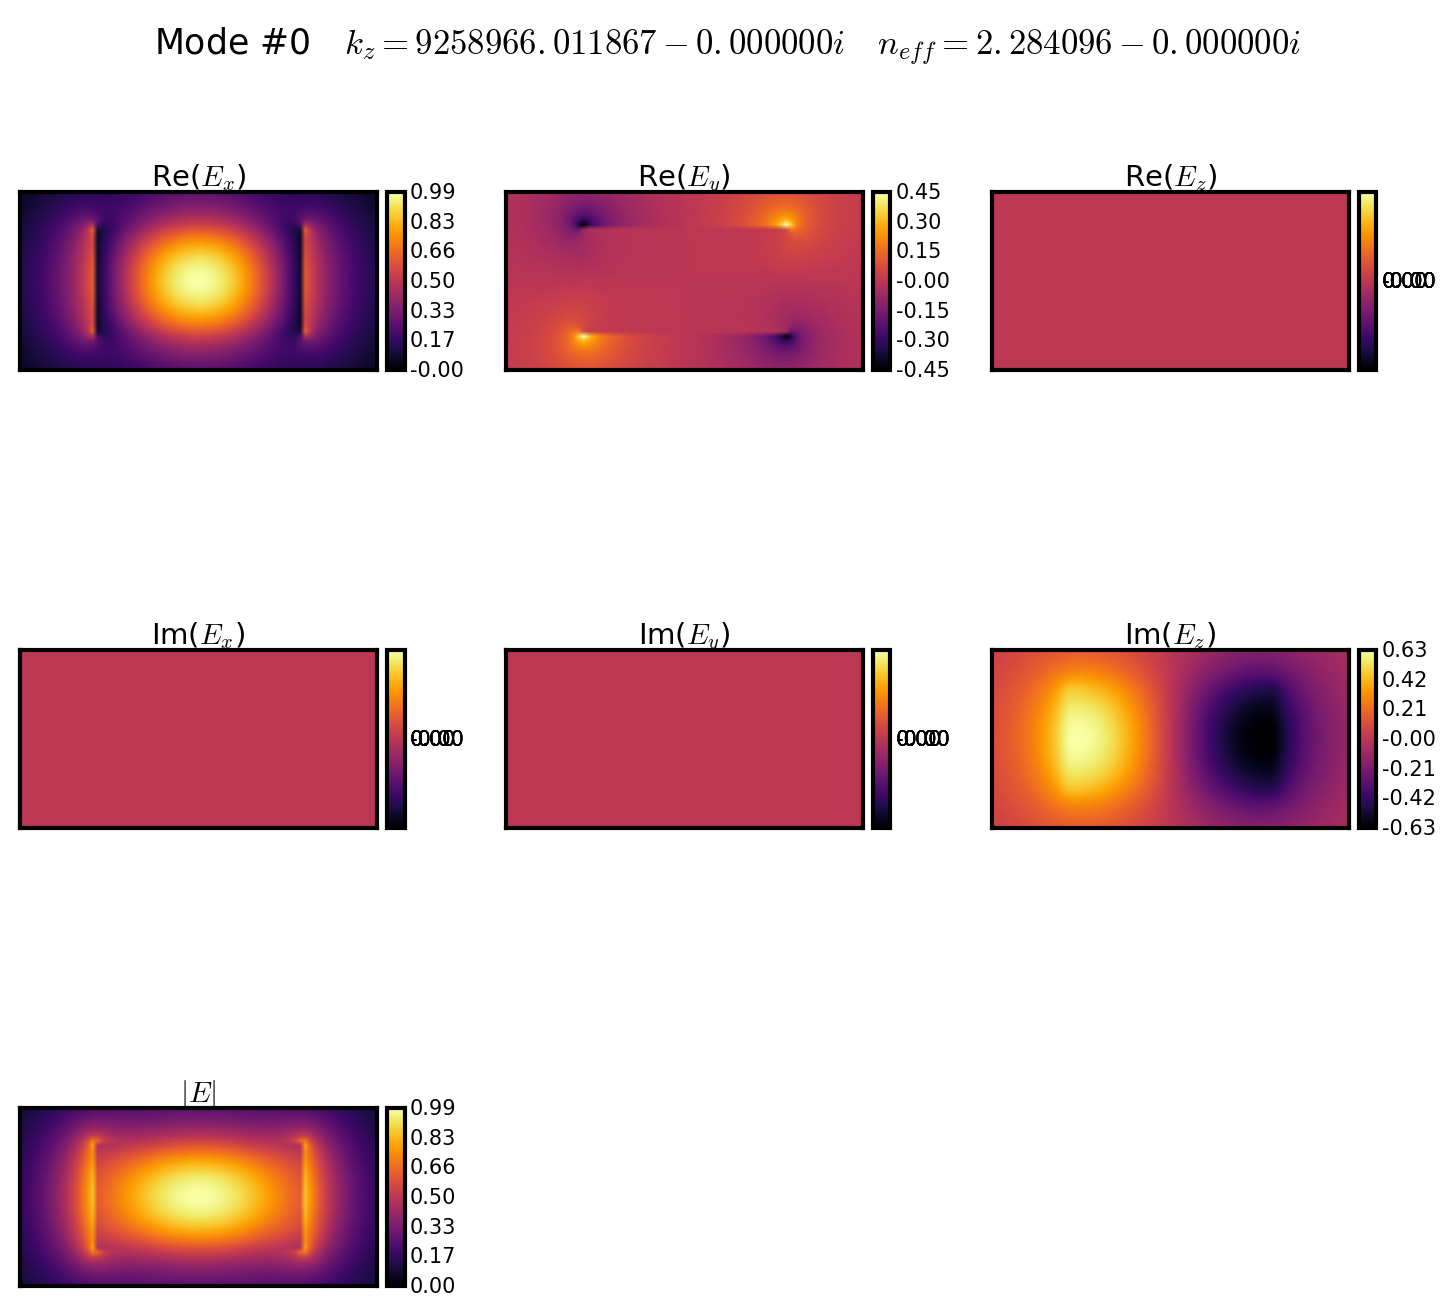
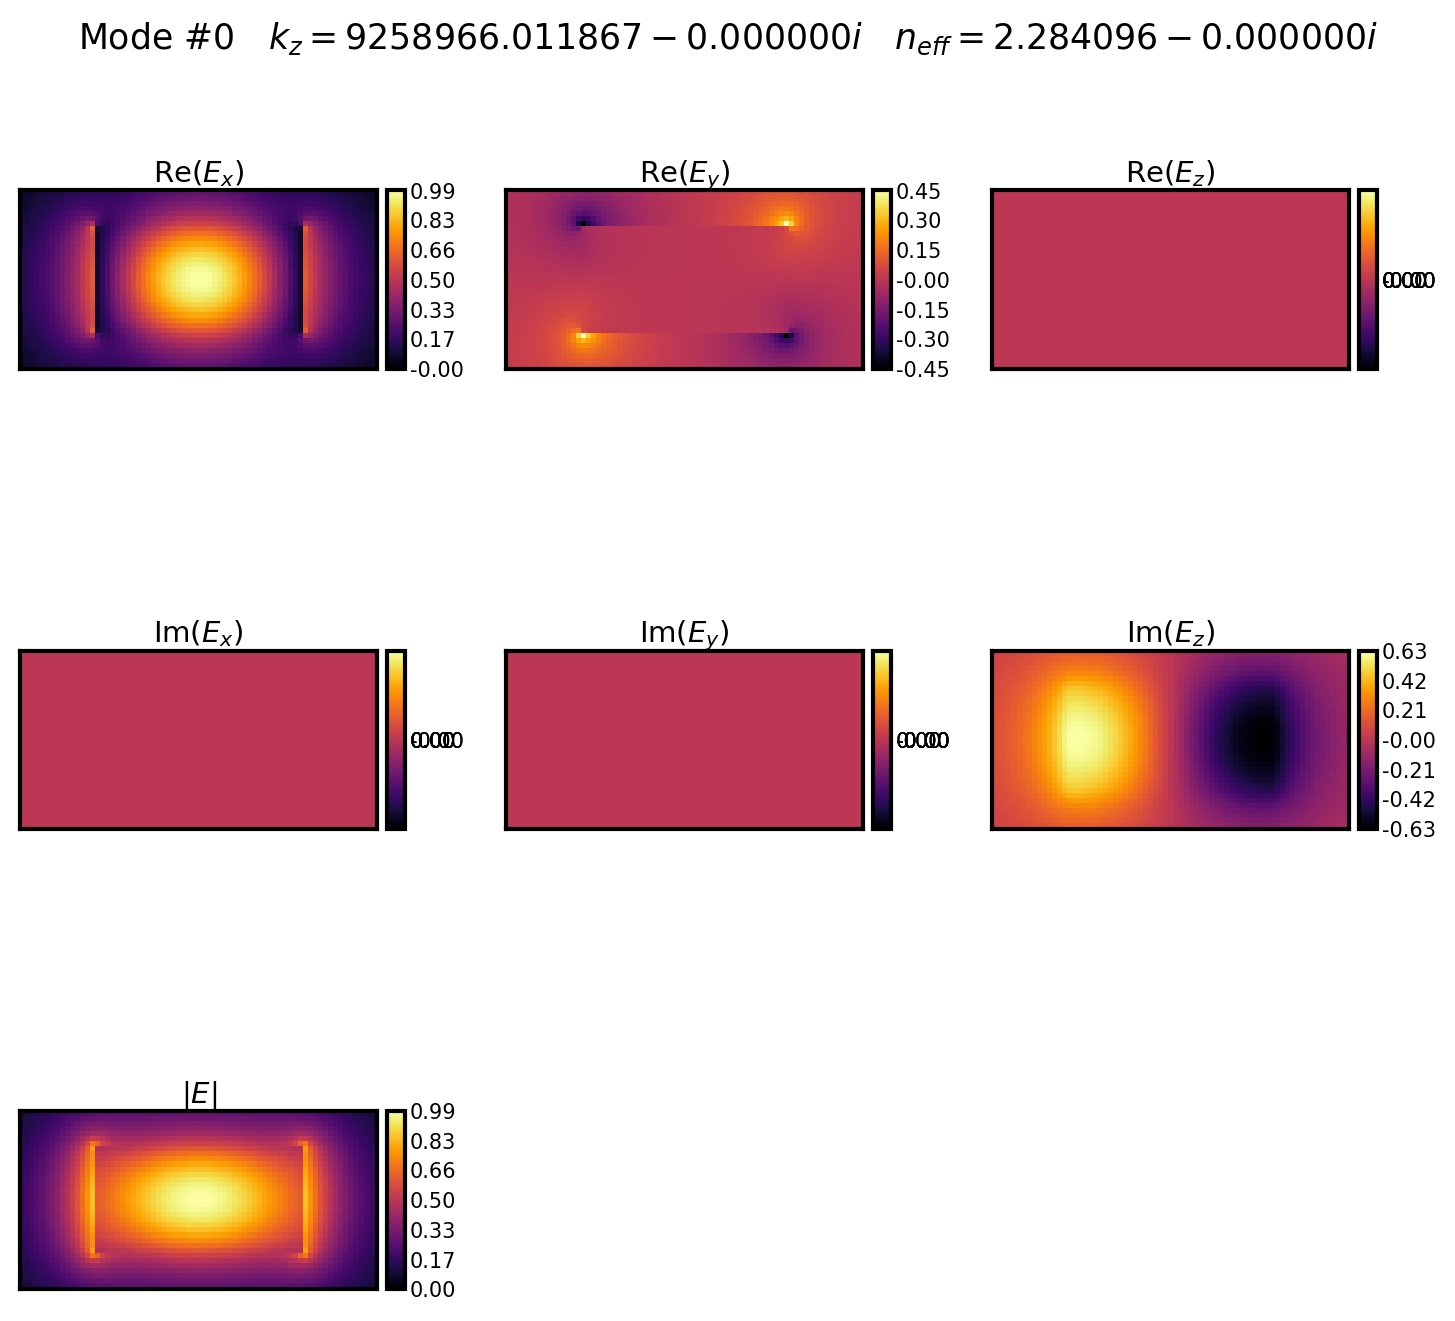
Updates encountered while preparing examples for paper publication.

diff --git a/lit_examples/simo-lit_04-no_pillar-Van_Laer-NP_2015.py b/lit_examples/simo-lit_04-no_pillar-Van_Laer-NP_2015.py
@@ -1,13 +1,19 @@
 """ Replicating the results of
-    Large Brillouin amplification in silicon
-    Kittlaus et al.
-    http://dx.doi.org/10.1038/nphoton.2016.112
+    Interaction between light and highly confined 
+    hypersound in a silicon photonic nanowire
+    Van Laer et al.
+    http://dx.doi.org/10.1038/nphoton.2015.11
+
+    Making simplification of ignoring the pillar.
 """
 
 import time
 import datetime
 import numpy as np
 import sys
+import matplotlib
+matplotlib.use('pdf')
+import matplotlib.pyplot as plt
 import copy
 
 sys.path.append("../backend/")
@@ -18,54 +24,35 @@ import integration
 import plotting
 from fortran import NumBAT
 
-# Naming conventions
-# AC: acoustic
-# EM: electromagnetic
-# k_AC: acoustic wavenumber
 
 start = time.time()
 
 # Geometric Parameters - all in nm.
-wl_nm = 1550 # Wavelength of EM wave in vacuum.
-# Unit cell must be large to ensure fields are zero at boundary.
+wl_nm = 1550
 unitcell_x = 5*wl_nm
-unitcell_y = 0.2*unitcell_x
-# Waveguide widths.
-inc_a_x = 1000
-inc_a_y = 80
-# Shape of the waveguide.
-inc_shape = 'rib'
+unitcell_y = 0.5*unitcell_x
+inc_a_x = 450
+inc_a_y = 230
+inc_shape = 'rectangular'
 
-slab_a_x = 3000
-slab_a_y = 130
-
-# Number of electromagnetic modes to solve for.
 num_modes_EM_pump = 20
 num_modes_EM_Stokes = num_modes_EM_pump
-# Number of acoustic modes to solve for.
-num_modes_AC = 40
-# The EM pump mode(s) for which to calculate interaction with AC modes.
-# Can specify a mode number (zero has lowest propagation constant) or 'All'.
+num_modes_AC = 60
 EM_ival_pump = 0
-# The EM Stokes mode(s) for which to calculate interaction with AC modes.
 EM_ival_Stokes = 0
-# The AC mode(s) for which to calculate interaction with EM modes.
 AC_ival = 'All'
 
-# Si_110 = copy.deepcopy(materials.Si_2015_Van_Laer)
+prefix_str = 'lit_04-no_pillar-'
+
+# Rotate crystal axis of Si from <100> to <110>, starting with same Si_2016_Smith data.
 Si_110 = copy.deepcopy(materials.Si_2016_Smith)
 Si_110.rotate_axis(np.pi/4,'y-axis', save_rotated_tensors=True)
-
-prefix_str = 'lit_07-'
-
-# Use specified parameters to create a waveguide object.
-# Note use of rough mesh for demonstration purposes.
+# Use all specified parameters to create a waveguide object.
 wguide = objects.Struct(unitcell_x,inc_a_x,unitcell_y,inc_a_y,inc_shape,
-                        slab_a_x=slab_a_x, slab_a_y=slab_a_y,
                         material_bkg=materials.Vacuum,
-                        material_a=Si_110,
-                        material_b=Si_110, symmetry_flag=False,
-                        lc_bkg=5, lc2=4000.0, lc3=2000.0)
+                        material_a=Si_110, symmetry_flag=False,
+                        lc_bkg=4, lc2=3000.0, lc3=2000.0)
+
 # Expected effective index of fundamental guided mode.
 n_eff = wguide.material_a.n-0.1
 
@@ -76,9 +63,12 @@ sim_EM_pump = wguide.calc_EM_modes(num_modes_EM_pump, wl_nm, n_eff=n_eff)
 # sim_EM_pump = npzfile['sim_EM_pump'].tolist()
 
 sim_EM_Stokes = mode_calcs.fwd_Stokes_modes(sim_EM_pump)
+# np.savez('wguide_data2', sim_EM_Stokes=sim_EM_Stokes)
+# npzfile = np.load('wguide_data2.npz')
+# sim_EM_Stokes = npzfile['sim_EM_Stokes'].tolist()
 
-plotting.plt_mode_fields(sim_EM_pump, xlim_min=0.4, xlim_max=0.4, ivals=[0], 
-                         ylim_min=0.3, ylim_max=0.3, EM_AC='EM_E', num_ticks=3,
+plotting.plt_mode_fields(sim_EM_pump, xlim_min=0.45, xlim_max=0.45, ivals=[0], 
+                         ylim_min=0.45, ylim_max=0.45, EM_AC='EM_E', 
                          prefix_str=prefix_str, pdf_png='png')
 
 # Print the wavevectors of EM modes.
@@ -88,23 +78,21 @@ print('k_z of EM modes \n', np.round(np.real(sim_EM_pump.Eig_values), 4))
 n_eff_sim = np.real(sim_EM_pump.Eig_values*((wl_nm*1e-9)/(2.*np.pi)))
 print("n_eff = ", np.round(n_eff_sim, 4))
 
-k_AC = 5
-
-shift_Hz = 2e9
+k_AC = 5 # close but not quite zero
 
 # Calculate Acoustic Modes
-sim_AC = wguide.calc_AC_modes(num_modes_AC, k_AC, EM_sim=sim_EM_pump, shift_Hz=shift_Hz)
+sim_AC = wguide.calc_AC_modes(num_modes_AC, k_AC, EM_sim=sim_EM_pump)
 # np.savez('wguide_data_AC', sim_AC=sim_AC)
 # npzfile = np.load('wguide_data_AC.npz')
 # sim_AC = npzfile['sim_AC'].tolist()
 
 # Print the frequencies of AC modes.
+print('Freq of AC modes (GHz) \n', np.round((sim_AC.Eig_values)*1e-9, 4))
 print('Freq of AC modes (GHz) \n', np.round(np.real(sim_AC.Eig_values)*1e-9, 4))
 
-plotting.plt_mode_fields(sim_AC, EM_AC='AC', prefix_str=prefix_str, ivals=[0,1,2,3,4,5,6,7,8,9],
-     num_ticks=3, xlim_min=0.1, xlim_max=0.1, pdf_png='png')
+plotting.plt_mode_fields(sim_AC, EM_AC='AC', prefix_str=prefix_str, pdf_png='png')
 
-set_q_factor = 680.
+set_q_factor = 306
 
 # Calculate interaction integrals and SBS gain for PE and MB effects combined, 
 # as well as just for PE, and just for MB.
@@ -123,12 +111,13 @@ print("SBS_gain MB contribution \n", masked_MB)
 print("SBS_gain total \n", masked)
 
 # Construct the SBS gain spectrum, built from Lorentzian peaks of the individual modes.
-freq_min = 4.2  # GHz
-freq_max = 4.3  # GHz
+freq_min = 9.1 # GHz
+freq_max = 9.4 # GHz
 plotting.gain_spectra(sim_AC, SBS_gain, SBS_gain_PE, SBS_gain_MB, linewidth_Hz, k_AC,
     EM_ival_pump, EM_ival_Stokes, AC_ival, freq_min=freq_min, freq_max=freq_max,
-    prefix_str=prefix_str, suffix_str='', pdf_png='pdf')
+    prefix_str=prefix_str, suffix_str='', pdf_png='png')
 
 end = time.time()
 print("\n Simulation time (sec.)", (end - start))
+
 

diff --git a/lit_examples/simo-lit_08-Kittlaus-NatComm_2017.py b/lit_examples/simo-lit_08-Kittlaus-NatComm_2017.py
@@ -47,11 +47,11 @@ coat_y = 100
 coat2_x = 100
 coat2_y = 200
 lc_bkg = 5  # background
-lc2 = 4000  # edge of rib
-lc3 = 500  # edge of slab_a 
-lc4 = 30  # edge of coat
-lc5 = 10   # edge of slab_b
-lc6 = 4  # edge of coat2
+lc2 = 6000  # edge of rib
+lc3 = 800   # edge of slab_a 
+lc4 = 30    # edge of coat
+lc5 = 10    # edge of slab_b
+lc6 = 4     # edge of coat2
 
 # Number of electromagnetic modes to solve for.
 num_modes_EM_pump = 20
@@ -97,9 +97,9 @@ sim_EM_Stokes = mode_calcs.fwd_Stokes_modes(sim_EM_pump)
 # npzfile = np.load('wguide_data2.npz')
 # sim_EM_Stokes = npzfile['sim_EM_Stokes'].tolist()
 
-plotting.plt_mode_fields(sim_EM_pump, xlim_min=0.35, xlim_max=0.35, ivals=[0,1], 
-                         ylim_min=0.3, ylim_max=0.3, EM_AC='EM_E', num_ticks=3,
-                         prefix_str=prefix_str, pdf_png='png')
+# plotting.plt_mode_fields(sim_EM_pump, xlim_min=0.35, xlim_max=0.35, ivals=[0,1], 
+#                          ylim_min=0.3, ylim_max=0.3, EM_AC='EM_E', num_ticks=3,
+#                          prefix_str=prefix_str, pdf_png='png')
 
 # Print the wavevectors of EM modes.
 print('k_z of EM modes \n', np.round(np.real(sim_EM_pump.Eig_values), 4))
@@ -122,8 +122,8 @@ sim_AC = wguide.calc_AC_modes(num_modes_AC, k_AC, EM_sim=sim_EM_pump, shift_Hz=s
 # Print the frequencies of AC modes.
 print('Freq of AC modes (GHz) \n', np.round(np.real(sim_AC.Eig_values)*1e-9, 4))
 
-plotting.plt_mode_fields(sim_AC, EM_AC='AC', prefix_str=prefix_str,
-     num_ticks=3, xlim_min=0.1, xlim_max=0.1)
+# plotting.plt_mode_fields(sim_AC, EM_AC='AC', prefix_str=prefix_str,
+#      num_ticks=3, xlim_min=0.1, xlim_max=0.1, pdf_png='png')
 
 set_q_factor = 460.
 
@@ -152,4 +152,3 @@ plotting.gain_spectra(sim_AC, SBS_gain, SBS_gain_PE, SBS_gain_MB, linewidth_Hz, 
 
 end = time.time()
 print("\n Simulation time (sec.)", (end - start))
-

diff --git a/lit_examples/simo-lit_04-pillar-Van_Laer-NP_2015.py b/lit_examples/simo-lit_04-pillar-Van_Laer-NP_2015.py
@@ -12,6 +12,7 @@ import sys
 import matplotlib
 matplotlib.use('pdf')
 import matplotlib.pyplot as plt
+import copy
 
 sys.path.append("../backend/")
 import materials
@@ -43,14 +44,18 @@ EM_ival_pump = 0
 EM_ival_Stokes = 0
 AC_ival = 'All'
 
-prefix_str = 'lit_04-'
+prefix_str = 'lit_04-pillar-'
+
+# Rotate crystal axis of Si from <100> to <110>, starting with same Si_2016_Smith data.
+Si_110 = copy.deepcopy(materials.Si_2015_Van_Laer)
+Si_110.rotate_axis(np.pi/4,'y-axis', save_rotated_tensors=True)
 
 # Use all specified parameters to create a waveguide object.
 wguide = objects.Struct(unitcell_x,inc_a_x,unitcell_y,inc_a_y,inc_shape,
                         slab_a_x=slab_a_x, slab_a_y=slab_a_y,
                         pillar_x=pillar_x, pillar_y=pillar_y,
                         material_bkg=materials.Vacuum,            # background
-                        material_a=materials.Si_2015_Van_Laer,    # rib
+                        material_a=Si_110,                        # rib
                         material_b=materials.SiO2_2015_Van_Laer,  # slab
                         material_c=materials.SiO2_2015_Van_Laer,  # pillar
                         lc_bkg=6, lc2=3000.0, lc3=100.0)
@@ -60,7 +65,7 @@ n_eff = wguide.material_a.n-0.1
 
 # Calculate Electromagnetic Modes
 sim_EM_pump = wguide.calc_EM_modes(num_modes_EM_pump, wl_nm, n_eff)
-sim_EM_Stokes = mode_calcs.bkwd_Stokes_modes(sim_EM_pump)
+sim_EM_Stokes = mode_calcs.fwd_Stokes_modes(sim_EM_pump)
 
 plotting.plt_mode_fields(sim_EM_pump, ivals=[0],
                          xlim_min=0.4, xlim_max=0.4, ylim_min=0.4, ylim_max=0.2, 
@@ -97,4 +102,3 @@ plotting.gain_spectra(sim_AC, SBS_gain, SBS_gain_PE, SBS_gain_MB, linewidth_Hz, 
 
 end = time.time()
 print("\n Simulation time (sec.)", (end - start))
-

diff --git a/lit_examples/simo-lit_05-Van_Laer-NJP_2015.py b/lit_examples/simo-lit_05-Van_Laer-NJP_2015.py
@@ -67,7 +67,7 @@ sim_EM_Stokes = mode_calcs.fwd_Stokes_modes(sim_EM_pump)
 
 plotting.plt_mode_fields(sim_EM_pump, xlim_min=0.45, xlim_max=0.45, ivals=[0], 
                          ylim_min=0.45, ylim_max=0.45, EM_AC='EM_E', 
-                         prefix_str=prefix_str, pdf_png='png')
+                         prefix_str=prefix_str, pdf_png='pdf')
 
 # Print the wavevectors of EM modes.
 print('k_z of EM modes \n', np.round(np.real(sim_EM_pump.Eig_values), 4))
@@ -88,9 +88,10 @@ sim_AC = wguide.calc_AC_modes(num_modes_AC, k_AC, EM_sim=sim_EM_pump)
 print('Freq of AC modes (GHz) \n', np.round((sim_AC.Eig_values)*1e-9, 4))
 print('Freq of AC modes (GHz) \n', np.round(np.real(sim_AC.Eig_values)*1e-9, 4))
 
-plotting.plt_mode_fields(sim_AC, EM_AC='AC', prefix_str=prefix_str)
+plotting.plt_mode_fields(sim_AC, EM_AC='AC', prefix_str=prefix_str, pdf_png='pdf')
 
-set_q_factor = 750
+# set_q_factor = 230 # NJP
+set_q_factor = 306 # NP
 
 # Calculate interaction integrals and SBS gain for PE and MB effects combined, 
 # as well as just for PE, and just for MB.
@@ -109,11 +110,11 @@ print("SBS_gain MB contribution \n", masked_MB)
 print("SBS_gain total \n", masked)
 
 # Construct the SBS gain spectrum, built from Lorentzian peaks of the individual modes.
-freq_min = 9.2 # GHz
+freq_min = 9.1 # GHz
 freq_max = 9.4 # GHz
 plotting.gain_spectra(sim_AC, SBS_gain, SBS_gain_PE, SBS_gain_MB, linewidth_Hz, k_AC,
     EM_ival_pump, EM_ival_Stokes, AC_ival, freq_min=freq_min, freq_max=freq_max,
-    prefix_str=prefix_str, suffix_str='')
+    prefix_str=prefix_str, suffix_str='', pdf_png='pdf')
 
 end = time.time()
 print("\n Simulation time (sec.)", (end - start))

diff --git a/lit_examples/simo-lit_09-Morrison-Optica_2017.py b/lit_examples/simo-lit_09-Morrison-Optica_2017.py
@@ -77,6 +77,10 @@ sim_EM_pump = wguide.calc_EM_modes(num_modes_EM_pump, wl_nm, n_eff)
 # npzfile = np.load('wguide_data.npz')
 # sim_EM_pump = npzfile['sim_EM_pump'].tolist()
 
+plotting.plt_mode_fields(sim_EM_pump, xlim_min=0.4, xlim_max=0.4, ivals=[0], 
+                         ylim_min=0.3, ylim_max=0.3, EM_AC='EM_E', num_ticks=3,
+                         prefix_str=prefix_str, pdf_png='pdf')
+
 # Calculate the Electromagnetic modes of the Stokes field.
 sim_EM_Stokes = mode_calcs.bkwd_Stokes_modes(sim_EM_pump)
 # np.savez('wguide_data2', sim_EM_Stokes=sim_EM_Stokes)
@@ -101,6 +105,9 @@ sim_AC = wguide.calc_AC_modes(num_modes_AC, k_AC, EM_sim=sim_EM_pump)
 # # np.savez('wguide_data_AC', sim_AC=sim_AC)
 # npzfile = np.load('wguide_data_AC.npz')
 # sim_AC = npzfile['sim_AC'].tolist()
+
+plotting.plt_mode_fields(sim_AC, EM_AC='AC', prefix_str=prefix_str,
+     num_ticks=3, xlim_min=0.1, xlim_max=0.1, pdf_png='pdf')
 
 # Print the frequencies of AC modes.
 print('\n Freq of AC modes (GHz) \n', np.round(np.real(sim_AC.Eig_values)*1e-9, 4))
@@ -135,4 +142,3 @@ plotting.gain_spectra(sim_AC, SBS_gain, SBS_gain_PE, SBS_gain_MB, linewidth_Hz, 
 
 end = time.time()
 print("\n Simulation time (sec.)", (end - start))
-

diff --git a/docs/source/tutorial.rst b/docs/source/tutorial.rst
@@ -592,21 +592,36 @@ causes a problem where the slab layer significantly distorting acoustic modes.
 Adding this feature is a priority for the next release of NumBAT.
 The following example shows an approximate way to avoid the problem for now.
 
-.. literalinclude:: ../../lit_examples/simo-lit_04-Van_Laer-NatPhot_2015.py
+.. literalinclude:: ../../lit_examples/simo-lit_04-pillar-Van_Laer-NatPhot_2015.py
     :lines: 0-
 
 
-.. figure:: ../../lit_examples/lit_04-fields/EM_E_field_0.png
+.. figure:: ../../lit_examples/lit_04-pillar-fields/EM_E_field_0.png
    :scale: 50 %
    
    Fundamental optical mode fields.
 
 
-.. figure:: ../../lit_examples/lit_04-fields/AC_field_38.png
+.. figure:: ../../lit_examples/lit_04-pillar-fields/AC_field_38.png
    :scale: 50 %
    
    Dominant high gain acoustic mode.
    Note how the absence of an absorptive boundary on the SiO2 slab causes this layer to significantly distorted the acoustic modes.
+
+
+We may also choose to study the simplified situation where the pedestal is removed.
+
+
+.. literalinclude:: ../../lit_examples/simo-lit_04-no_pillar-Van_Laer-NatPhot_2015.py
+    :lines: 0-
+
+Which gives good agreement for the gain spectrum.
+
+.. figure:: ../../lit_examples/lit_04-pillar-fields/lit_04-no_pillar-gain_spectra-MB_PE_comps.png
+   :scale: 50 %
+   
+   Gain spectrum for the simplified case of a waveguide surrounded by vacuum.
+
 
 .. raw:: latex
 
